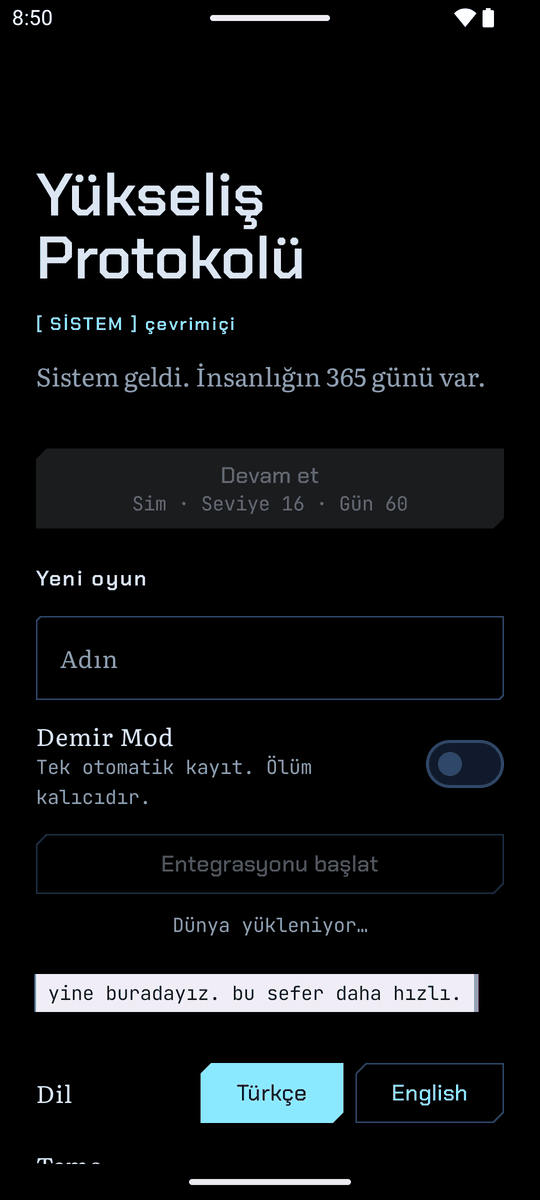
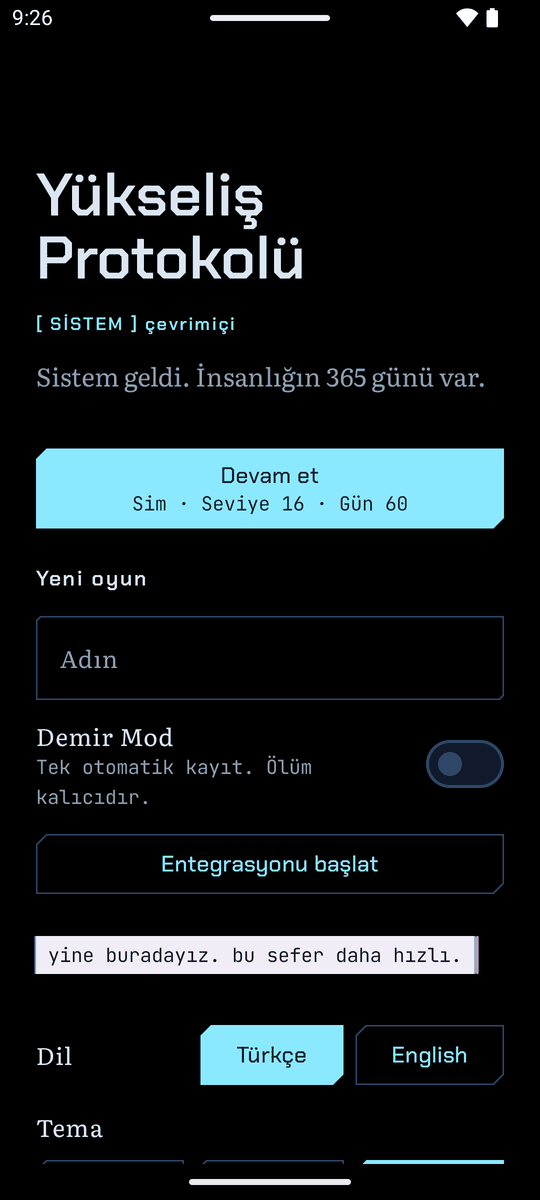
Paket 5: kalan P1 düzeltmeleri — bölüm kartları, tam ekran son, terimler, erişilebilirlik, yükleme süresi
- Bölüm açılış kartı (brifing) ve kapanış kartı (darboğaz); son ekranı tam ekran, son adı büyük başlık
- TR terimler: savaş kaynağı "Nefes" (NFS), defter karosu "Görevler"
- Çanta: mesleklere atıf yapan açıklamalar yeniden yazıldı, kullanılabilir eşya üstte, kullanım satırı
- Erişilebilirlik: anahtar satırları tek düğüm ve tek dokunma hedefi, metni tamamlayan dokunuş etiketli
- İçerik dosyaları paralel ayrıştırılır: emülatörde yükleme yaklaşık 8 sn → 4,3 sn (hedef 3 sn sağlanmadı)
- DECISIONS #173–#176, GDD, CLAUDE.md, UI_REVIEW düzeltme sonrası tablosu, PROGRESS

diff --git a/app/src/main/kotlin/com/yukselis/protocol/ui/story/StoryScreen.kt b/app/src/main/kotlin/com/yukselis/protocol/ui/story/StoryScreen.kt
@@ -144,7 +144,7 @@ fun StoryScreen(
 
     val skip = remember { MutableInteractionSource() }
     Column(modifier = modifier.fillMaxSize()) {
-        scene.chapter?.let { ChapterBar(it) }
+        if (!scene.isEnding) scene.chapter?.let { ChapterBar(it) }
         Box(modifier = Modifier.weight(1f).fillMaxWidth()) {
         LazyColumn(
             state = listState,
@@ -152,7 +152,7 @@ fun StoryScreen(
             verticalArrangement = Arrangement.spacedBy(14.dp),
             modifier = Modifier
                 .fillMaxSize()
-                .clickable(interactionSource = skip, indication = null) { finished = true },
+                .clickable(interactionSource = skip, indication = null, enabled = !finished, onClickLabel = stringResource(R.string.a11y_skip_text)) { finished = true },
         ) {
             if (scene.history.isNotEmpty()) {
                 item(key = "earlier") {
@@ -166,6 +166,15 @@ fun StoryScreen(
             // Son seçimin sonuçları (XP, seviye atlama, unvan) yeni pasajdan önce gösterilir.
             itemsIndexed(freshNotices, key = { i, _ -> "fresh-$passageKey-$i" }) { _, notice ->
                 AppearingCard(notice)
+            }
+
+            val chapterLine = scene.chapter
+            if (chapterLine != null) {
+                val id = scene.current.sceneId
+                when {
+                    CHAPTER_OPEN.matches(id) -> item(key = "chapter-open-$passageKey") { ChapterCard(chapterLine, opening = true, day = scene.day) }
+                    CHAPTER_CLOSE.matches(id) -> item(key = "chapter-close-$passageKey") { ChapterCard(chapterLine, opening = false, day = scene.day) }
+                }
             }
 
             item(key = "text-$passageKey") {
@@ -296,6 +305,38 @@ private fun ChapterBar(line: com.yukselis.engine.world.ChapterLine) {
 }
 
 private const val DEADLINE_WARN_DAYS = 3
+private val CHAPTER_OPEN = Regex("brifing_\\d+_1")
+private val CHAPTER_CLOSE = Regex("darbogaz_\\d+_1")
+
+/**
+ * Bölüm açılış ve kapanış kartı (UI_REVIEW E2, E3): brifingin ve darboğazın ilk sahnesinde, metinden önce. Açılışta bölüm
+ * numarası, adı, hedefi ve son tarih; kapanışta bölüm adı ve gün.
+ */
+@Composable
+private fun ChapterCard(line: com.yukselis.engine.world.ChapterLine, opening: Boolean, day: Int) {
+    val accent = if (opening) Game.colors.amber else Game.colors.muted
+    Column(modifier = Modifier.fillMaxWidth().systemWindow(accent = accent)) {
+        Column(modifier = Modifier.padding(horizontal = 16.dp, vertical = 14.dp), verticalArrangement = Arrangement.spacedBy(4.dp)) {
+            Text(
+                text = stringResource(if (opening) R.string.chapter_open else R.string.chapter_close, line.no).uppercase(LocalConfiguration.current.locales[0]),
+                style = GameType.systemTitle.copy(fontSize = 12.sp, letterSpacing = 1.2.sp),
+                color = accent,
+            )
+            Text(text = line.title, style = GameType.heading.copy(fontSize = 26.sp, lineHeight = 30.sp), color = MaterialTheme.colorScheme.onBackground)
+            if (opening) {
+                Text(text = line.goal, style = GameType.narration, color = MaterialTheme.colorScheme.onSurfaceVariant)
+                Text(
+                    text = stringResource(R.string.chapter_deadline) + ": " +
+                        (line.countdown ?: androidx.compose.ui.res.pluralStringResource(R.plurals.chapter_days, line.daysLeft, line.daysLeft)),
+                    style = GameType.system,
+                    color = if (line.daysLeft <= DEADLINE_WARN_DAYS) Game.colors.danger else Game.colors.amber,
+                )
+            } else {
+                Text(text = stringResource(R.string.chapter_day, day), style = GameType.system, color = MaterialTheme.colorScheme.onSurfaceVariant)
+            }
+        }
+    }
+}
 
 /** Altta ince eylem çubuğu: rutin eylemler, "metni göster" ya da son düğmesi. Hikaye seçenekleri burada durmaz. */
 @Composable
@@ -461,7 +502,7 @@ private fun EndingContent(ending: com.yukselis.engine.story.EndingView?) {
 @Composable
 private fun EndingCards(e: com.yukselis.engine.story.EndingView) {
     val gold = Game.colors.unique
-    Text(text = stringResource(R.string.ending_label, e.name), style = GameType.systemTitle, color = gold)
+    Text(text = stringResource(R.string.ending_label, e.name), style = GameType.heading.copy(fontSize = 30.sp, lineHeight = 34.sp), color = gold)
     Text(text = e.summary, style = GameType.narration)
     Text(text = stringResource(R.string.ending_stats, e.level, e.grade, e.day), style = GameType.system, color = MaterialTheme.colorScheme.onSurfaceVariant)
     e.archetype?.let { name ->

diff --git a/engine/src/main/kotlin/com/yukselis/engine/content/ContentParser.kt b/engine/src/main/kotlin/com/yukselis/engine/content/ContentParser.kt
@@ -103,6 +103,27 @@ object ContentParser {
 
     data class StoryFile(val start: String?, val scenes: List<Scene>)
 
+    /** Sırayı koruyan paralel dönüşüm; hata, ayrıştırıcının kendi istisnasıyla çıkar. */
+    private fun <T, R> parallelMap(items: List<T>, f: (T) -> R): List<R> {
+        val threads = Runtime.getRuntime().availableProcessors().coerceIn(1, MAX_PARSE_THREADS)
+        if (items.size < 2 || threads < 2) return items.map(f)
+        val pool = java.util.concurrent.Executors.newFixedThreadPool(threads)
+        try {
+            val futures = items.map { item -> pool.submit(java.util.concurrent.Callable { f(item) }) }
+            return futures.map { fut ->
+                try {
+                    fut.get()
+                } catch (e: java.util.concurrent.ExecutionException) {
+                    throw e.cause ?: e
+                }
+            }
+        } finally {
+            pool.shutdown()
+        }
+    }
+
+    private const val MAX_PARSE_THREADS = 4
+
     fun load(
         storyFiles: List<String>,
         namesJson: String,
@@ -114,8 +135,9 @@ object ContentParser {
         // Sonlar tablosu olaylardan önce kurulur: `son_uygun` koşulları ona bağlanır, tablo sonra doldurulur.
         val endingTable = EndingTable()
         EndingTable.current = endingTable
-        val stories = storyFiles.map { parseStory(it) }
-        val eventPacks = eventFiles.map { parseEvents(it) }
+        // Dosyalar birbirinden bağımsızdır: çekirdek sayısı kadar iş parçacığında ayrıştırılır (UI_REVIEW B5, açılış süresi).
+        val stories = parallelMap(storyFiles) { parseStory(it) }
+        val eventPacks = parallelMap(eventFiles) { parseEvents(it) }
         val scenes = stories.flatMap { it.scenes } + eventPacks.flatMap { it.second }
         val duplicates = scenes.groupBy { it.id }.filterValues { it.size > 1 }.keys
         if (duplicates.isNotEmpty()) throw ContentFormatException("Aynı kimliğe sahip sahneler: $duplicates")
@@ -127,7 +149,7 @@ object ContentParser {
         val profRoot = obj(PROFESSIONS)
         val names = NameRegistry(parseNames(namesJson))
         val texts = SystemTexts(obj(SYSTEM)?.map { (k, v) -> k to ltext(v, "system.$k") }?.toMap() ?: emptyMap())
-        val npcs = npcFiles.map { parseNpc(YamlTree.parseObject(it, "npc")) }.also { list ->
+        val npcs = parallelMap(npcFiles) { parseNpc(YamlTree.parseObject(it, "npc")) }.also { list ->
             val dup = list.groupBy { it.id }.filterValues { it.size > 1 }.keys
             if (dup.isNotEmpty()) throw ContentFormatException("Aynı kimliğe sahip NPC'ler: $dup")
         }.associateBy { it.id }

diff --git a/app/src/main/kotlin/com/yukselis/protocol/ui/title/TitleScreen.kt b/app/src/main/kotlin/com/yukselis/protocol/ui/title/TitleScreen.kt
@@ -22,6 +22,7 @@ import androidx.compose.material3.OutlinedTextField
 import androidx.compose.material3.Switch
 import androidx.compose.material3.Text
 import androidx.compose.runtime.Composable
+import androidx.compose.foundation.selection.toggleable
 import androidx.compose.runtime.getValue
 import androidx.compose.runtime.mutableStateOf
 import androidx.compose.runtime.saveable.rememberSaveable
@@ -124,24 +125,30 @@ fun TitleScreen(
         )
         Row(
             verticalAlignment = Alignment.CenterVertically,
-            modifier = Modifier.fillMaxWidth().padding(vertical = 12.dp),
+            modifier = Modifier
+                .fillMaxWidth()
+                .toggleable(value = ironman, role = androidx.compose.ui.semantics.Role.Switch, onValueChange = { ironman = it })
+                .padding(vertical = 12.dp),
         ) {
             Column(modifier = Modifier.weight(1f)) {
                 Text(stringResource(R.string.ironman_mode), style = MaterialTheme.typography.bodyLarge)
                 Text(stringResource(R.string.ironman_desc), style = GameType.system, color = MaterialTheme.colorScheme.onSurfaceVariant)
             }
-            Switch(checked = ironman, onCheckedChange = { ironman = it })
+            Switch(checked = ironman, onCheckedChange = null)
         }
         if (newGamePlusUnlocked) {
             Row(
                 verticalAlignment = Alignment.CenterVertically,
-                modifier = Modifier.fillMaxWidth().padding(bottom = 12.dp),
+                modifier = Modifier
+                    .fillMaxWidth()
+                    .toggleable(value = newGamePlus, role = androidx.compose.ui.semantics.Role.Switch, onValueChange = { newGamePlus = it })
+                    .padding(bottom = 12.dp),
             ) {
                 Column(modifier = Modifier.weight(1f)) {
                     Text(stringResource(R.string.ng_plus), style = MaterialTheme.typography.bodyLarge)
                     Text(stringResource(R.string.ng_plus_desc), style = GameType.system, color = MaterialTheme.colorScheme.onSurfaceVariant)
                 }
-                Switch(checked = newGamePlus, onCheckedChange = { newGamePlus = it })
+                Switch(checked = newGamePlus, onCheckedChange = null)
             }
         }
         val start = { onNewGame(name.ifBlank { defaultName }, ironman, newGamePlus && newGamePlusUnlocked) }

diff --git a/app/src/main/kotlin/com/yukselis/protocol/ui/App.kt b/app/src/main/kotlin/com/yukselis/protocol/ui/App.kt
@@ -170,7 +170,7 @@ private fun GameScaffold(ui: UiState, scene: SceneView, status: StatusView, view
 
     val tabs = Tab.entries.filter { it.grant == null || it.grant in status.tabs }
     // Verilmemiş bir sekme seçili kaldıysa (ör. eski kayıt yüklendi) Hikaye gösterilir.
-    val active = if (tab in tabs) tab else Tab.STORY
+    val active = if (tab in tabs && !scene.isEnding) tab else Tab.STORY
 
     // Geri tuşu (UI_REVIEW B4): başka sekmedeyse Hikaye'ye döner; Hikaye'de ilk basış uyarır, 2 sn içinde ikincisi çıkar.
     // (Daha fazla'nın alt sayfası kendi geri işleyicisiyle önce kapanır.)
@@ -195,8 +195,10 @@ private fun GameScaffold(ui: UiState, scene: SceneView, status: StatusView, view
 
     Box(modifier = Modifier.fillMaxSize()) {
     Scaffold(
-        topBar = { Header(scene, status) },
+        // Son ekranı tam ekrandır (UI_REVIEW E1): üst şerit ve sekmeler gizli; çıkış "Ana menüye dön".
+        topBar = { if (!scene.isEnding) Header(scene, status) else Spacer(Modifier.statusBarsPadding()) },
         bottomBar = {
+            if (!scene.isEnding) {
             // Sekme çubuğu gezinmedir, okuma değil: oyun içi yazı boyutu onu büyütmez (etiketler kesilmesin).
             // Cihaz yazı ölçeği de en çok NAV_MAX_FONT_SCALE: "Hik…", "Dur…" diye kesilmesin (UI_REVIEW C2).
             val d = LocalDensity.current
@@ -220,6 +222,7 @@ private fun GameScaffold(ui: UiState, scene: SceneView, status: StatusView, view
                         label = { Text(stringResource(t.label), maxLines = 1, softWrap = false, overflow = TextOverflow.Visible, style = MaterialTheme.typography.labelSmall) },
                     )
                 }
+            }
             }
             }
         },

diff --git a/app/src/main/kotlin/com/yukselis/protocol/ui/more/MoreScreen.kt b/app/src/main/kotlin/com/yukselis/protocol/ui/more/MoreScreen.kt
@@ -43,6 +43,7 @@ import com.yukselis.protocol.ui.components.SystemCard
 import androidx.compose.ui.graphics.Color
 import com.yukselis.protocol.ui.theme.GameType
 import androidx.activity.compose.BackHandler
+import androidx.compose.foundation.selection.toggleable
 import androidx.compose.foundation.layout.height
 import androidx.compose.foundation.layout.heightIn
 import androidx.compose.foundation.layout.size
@@ -498,14 +499,18 @@ private fun NotificationToggle(
 
 @Composable
 private fun ToggleRow(label: String, description: String?, checked: Boolean, enabled: Boolean, onChange: (Boolean) -> Unit) {
+    // Satırın tamamı tek anahtar: ekran okuyucu etiketi durumla birlikte okur, dokunma alanı satır kadar (UI_REVIEW G2).
     Row(
         verticalAlignment = Alignment.CenterVertically,
-        modifier = Modifier.fillMaxWidth().padding(vertical = 6.dp),
+        modifier = Modifier
+            .fillMaxWidth()
+            .toggleable(value = checked, enabled = enabled, role = androidx.compose.ui.semantics.Role.Switch, onValueChange = onChange)
+            .padding(vertical = 9.dp),
     ) {
         Column(modifier = Modifier.weight(1f)) {
             Text(label, style = MaterialTheme.typography.bodyLarge)
             description?.let { Text(it, style = GameType.system, color = MaterialTheme.colorScheme.onSurfaceVariant) }
         }
-        Switch(checked = checked, onCheckedChange = onChange, enabled = enabled)
+        Switch(checked = checked, onCheckedChange = null, enabled = enabled)
     }
 }

diff --git a/app/src/main/kotlin/com/yukselis/protocol/ui/bag/BagScreen.kt b/app/src/main/kotlin/com/yukselis/protocol/ui/bag/BagScreen.kt
@@ -56,7 +56,8 @@ fun BagScreen(
             SectionTitle(stringResource(R.string.inventory))
             if (bag.items.isEmpty()) Text(stringResource(R.string.inventory_empty), style = GameType.system, color = MaterialTheme.colorScheme.onSurfaceVariant)
         }
-        items(bag.items, key = { "i-${it.id}" }) { ItemRow(it) { onUse(it.id) } }
+        // Kullanılabilir eşyalar üstte (UI_REVIEW D2).
+        items(bag.items.sortedByDescending { it.usable }, key = { "i-${it.id}" }) { ItemRow(it) { onUse(it.id) } }
 
         // Meslek bölümü yalnız motor bir meslek adı veriyorsa (sistem kapalıyken hiç görünmez).
         val professionName = bag.professionName
@@ -78,6 +79,8 @@ private fun ItemRow(item: ItemView, onUse: () -> Unit) {
             Column(modifier = Modifier.weight(1f)) {
                 Text("${item.name} ×${item.count}", style = GameType.systemTitle, color = rarityColorOf(item.rarity))
                 Text(item.description, style = GameType.system, color = MaterialTheme.colorScheme.onSurfaceVariant)
+                // Kullan düğmesi olmayan eşya neye yaradığını söyler.
+                if (!item.usable) Text(stringResource(R.string.item_trade_hint), style = GameType.system, color = MaterialTheme.colorScheme.onSurfaceVariant.copy(alpha = 0.75f))
             }
             if (item.usable) OutlinedButton(onClick = onUse) { Text(stringResource(R.string.use)) }
         }

diff --git a/tools/qa/ui/s_p1.py b/tools/qa/ui/s_p1.py
@@ -1,0 +1,37 @@
+"""Kalan P1 düzeltmeleri sonrası görüntüler ve ölçümler (UI_REVIEW B5, D2, E1–E3, F1, F2, G1, G2)."""
+import os, re, time, json
+os.environ["CAP_SUFFIX"] = "_sonra"
+from cap import *
+import cap
+
+cond("tr", "DARK", "MEDIUM", 1.0, "small")
+# B5: yükleme süresi (3 ölçüm)
+for i in range(3):
+    stop(); time.sleep(1)
+    t0 = time.time()
+    sh(f"am start -W -n {cap.PKG}/.MainActivity")
+    t1 = time.time()
+    while True:
+        ns = nodes()
+        if any(re.search(r"^Devam et", n[0]) for n in ns) and not any("yükleniyor" in n[0] for n in ns): break
+        if time.time() - t1 > 40: break
+    print("yükleme %d: start %.1f sn + dünya %.1f sn" % (i + 1, t1 - t0, time.time() - t1))
+
+dumps = {}
+def snap(name, scroll=0):
+    shot(name); dumps[name] = nodes()
+    for i in range(scroll):
+        swipe_up(0.45); shot(f"{name}_k{i+1}"); dumps[f"{name}_k{i+1}"] = nodes()
+
+for f in ("brifing_1", "brifing_4", "darbogaz_2"):
+    load(f); snap(f)
+load("son"); snap("son", 4)
+load("savas_taktik"); snap("savas_taktik")
+load("us_perde2")
+tap(r"^Çanta$"); snap("sekme_bag", 1)
+tap(r"^Durum$"); snap("sekme_status")
+tap(r"^Daha fazla$"); snap("sekme_more")
+tap(r"^Ayarlar$", wait=1.5); snap("dahafazla_ayarlar", 1)
+stop(); start(); time.sleep(8); snap("baslik")
+os.makedirs(os.path.join(cap.ROOT, "build", "ui-dumps"), exist_ok=True)
+json.dump(dumps, open(os.path.join(cap.ROOT, "build", "ui-dumps", "p1_sonra.json"), "w", encoding="utf-8"), ensure_ascii=False)

diff --git a/docs/DECISIONS.md b/docs/DECISIONS.md
@@ -10,6 +10,11 @@ GDD'nin açık bıraktığı ya da bilinçli olarak saptığımız noktalar. En 
 | 171 | **Geri alınamaz işlemler onay ister; geri tuşu oyundan düşürmez.** Kayıt varken Yeni oyun, dolu slota Kaydet ve Yükle onay penceresi açar. Geri tuşu: açık alt sayfa → Hikaye sekmesi → "çıkmak için bir kez daha" (2 sn). | UI_REVIEW B1–B4: üç işlem onaysız veri kaybına yol açıyordu; geri tuşu her ekrandan uygulamadan çıkıyordu. | — |
 | 172 | **Denetim etiketlerinde yazı ölçeği tavanı** (`CappedFontScale`): alt sekmeler 1.0, savaş düğmeleri ve başlık logosu 1.3. Okuma metni (anlatı, seçenek, Sistem kartı) cihaz ölçeğini tam izler. | UI_REVIEW C1–C4: ölçek 2.0'da sekmeler "Hik…", düğmeler "Yetene", logo "Yükse/liş" diye bölünüyordu. Sekme ve düğmeler ikonla/konumla tanınır; okunması gereken metin değil. | Erişilebilirlik denetiminde sekme etiketleri küçük bulunursa yalnız ikon + seçili sekmede etiket. |
 
+| 173 | **Bölüm açılış/kapanış kartı ve tam ekran son.** Brifingin ilk sahnesinde (`brifing_<n>_1`) metinden önce bölüm kartı (numara, ad, hedef, son tarih); darboğazın ilk sahnesinde (`darbogaz_<n>_1`) kapanış kartı (ad, gün). Son ekranında üst şerit, bölüm çubuğu ve sekmeler gizli; son adı büyük başlık. Kartlar arayüzde sahne kimliğinden tanınır, motor değişmedi. | UI_REVIEW E1–E3: bölüm başı, bölüm sonu ve son sıradan sahne gibi geçiyordu. | Kapanış kartına "bu bölümde yaptıkların" özeti istenirse motor `ChapterLine`'a bölüm kroniği ekler. |
+| 174 | **Terimler: savaş kaynağı TR'de "Nefes" (NFS); defter karosu "Görevler".** "Dayanım" (kaynak) ile "Dayanıklılık" (DAY statı) ve "Günlük" (defter) ile "Günlük Görev" karışıyordu. EN değişmedi (Stamina/STA, Journal). | UI_REVIEW F1, F2. | — |
+| 175 | **İçerik dosyaları paralel ayrıştırılır** (`ContentParser.parallelMap`, en çok 4 iş parçacığı; hikaye, olay ve NPC dosyaları). Emülatörde (debug) "Dünya yükleniyor" yaklaşık 8 sn → 4,4 sn; hedef 3 sn'nin altı sağlanmadı. | UI_REVIEW B5. | Release derlemesinde gerçek cihazda ölç; hâlâ > 3 sn ise ayrıştırılmış içeriği ikili önbelleğe al. |
+| 176 | **Eşya açıklamaları ve anahtar satırları.** Kapatılan mesleklere atıf yapan 4 eşya açıklaması takas diliyle yazıldı; Çanta'da kullanılabilir eşyalar üstte, kullanılamayanlarda "Takasta ve hikaye seçimlerinde işe yarar" satırı. Ayarlar ve başlıktaki anahtar satırları tek dokunma hedefi ve tek erişilebilirlik düğümü (`toggleable`); metni tamamlayan dokunuş etiketli ve yalnız metin yazılırken etkin. | UI_REVIEW D2, G1, G2. | — |
+
 ## Oyuncu gözüyle inceleme, Paket 4: sistem çıkarma — 2026-11-10
 
 | # | Karar | Neden | Ne zaman yeniden bakılır |

diff --git a/docs/UI_REVIEW.md b/docs/UI_REVIEW.md
@@ -225,6 +225,16 @@ etiketin sonunda `_sonra` ile: `docs/ui-review/<ekran>__<koşul>_sonra.png` (4 k
 | C3 | Düzeltildi | Savaş düğmesi etiketleri ölçek tavanı 1.3: "Yetenek", "Otomatik" tam. Günlük alanı değişmedi. | `savas_taktik__tr_small_dark_f2` | `savas_taktik__tr_small_dark_f2_sonra` |
 | C4 | Düzeltildi | Başlık logosu ölçek tavanı 1.3: sözcük bölünmüyor, Devam et ilk ekranda. | `baslik__tr_small_dark_f2`, `baslik__tr_small_dark_f2xl` | `baslik__tr_small_dark_f2_sonra` |
 
+| B5 | Kısmen | İçerik dosyaları paralel ayrıştırılıyor: "Dünya yükleniyor" yaklaşık 8 sn → 4,4 sn (son ölçüm 4,3 / 4,2 / 4,3; emülatör, debug). Hedef 3 sn'nin altı sağlanmadı. | `baslik__tr_small_dark_n` | `baslik__tr_small_dark_n_sonra` |
+| D2 | Düzeltildi | Mesleklere atıf yapan 4 açıklama yeniden yazıldı; kullanılabilir eşya üstte; diğerlerinde "Takasta ve hikaye seçimlerinde işe yarar". | `sekme_bag__tr_small_dark_n` | `sekme_bag__tr_small_dark_n_sonra` |
+| E1 | Düzeltildi (kısmen) | Son ekranı tam ekran: üst şerit, bölüm çubuğu ve sekmeler gizli, son adı büyük başlık. Epilog kartları hâlâ tek kaydırma (sırayla açılan kartlar yapılmadı). | `son__tr_small_dark_n`, `son_k1`–`_k4` | aynı adlar `_sonra` |
+| E2 | Düzeltildi | Brifingin ilk sahnesinde bölüm açılış kartı: numara, ad, hedef, son tarih. | `brifing_1__tr_small_dark_n`, `brifing_4__…` | aynı adlar `_sonra` |
+| E3 | Düzeltildi (sade) | Darboğazın ilk sahnesinde kapanış kartı: bölüm adı ve gün. Seçim özeti ve sonraki bölümün adı yok (motor verisi gerekir). | `darbogaz_2__tr_small_dark_n` | `darbogaz_2__tr_small_dark_n_sonra` |
+| F1 | Düzeltildi | Defter karosu TR'de "Görevler". | `sekme_more__tr_small_dark_n` | `sekme_more__tr_small_dark_n_sonra` |
+| F2 | Düzeltildi | Savaş kaynağı TR'de "Nefes" (NFS); Dayanıklılık (DAY) ile karışmıyor. | `savas_taktik__tr_small_dark_n` | `savas_taktik__tr_small_dark_n_sonra` |
+| G1 | Düzeltildi | Metni tamamlayan dokunuş etiketli ve yalnız metin yazılırken etkin; etiketsiz dokunulabilir öğe ölçümü hikaye, savaş, Ayarlar ve Daha fazla ekranlarında 0 (başlıkta ad alanı ve dil/tema düğmeleri sayımda kaldı). | — | `build/ui-dumps/p1_sonra.json` ölçümü |
+| G2 | Düzeltildi | Ayarlar ve başlıktaki anahtar satırları tek düğüm ve tek dokunma hedefi (satırın tamamı). | `dahafazla_ayarlar__tr_small_dark_n` | `dahafazla_ayarlar__tr_small_dark_n_sonra` |
+
 Doğrulama: `s_flow.py` (geri tuşu Hikaye ve Durum'da oyunda kalıyor; Kaydet/Yükle/Yeni oyun onay penceresi açıyor), `scripts/check.sh`.
 
 Düzeltmeden sonra görülen ve açık kalanlar:

diff --git a/docs/GDD.md b/docs/GDD.md
@@ -63,7 +63,7 @@ Oyuncunun stat büyümesi **üsteldir** (Günlük Görev serisi, Benzersiz yeten
 - **Gösteriş seçenekleri:** yüksek statlar "[GÜÇ 40 · Önemsiz] Kapıyı menteşesinden sök" gibi sorunu tarzla çözen seçenekler gösterir. Yeniden denenebilir (beyaz) ve tek seferlik (kırmızı) kontroller görünür olasılıklarla kalır, ama çoğunlukla sosyal ve ahlaki kontrollerde kullanılır.
 - **Fırsat eli:** serbest zamanda 3 rastgele olay kartı gösterilir (Perde 1'de 2; DECISIONS #163); oyuncu birini seçer.
 - **İki savaş modu:**
-  - **Gerçek savaş** (denkler ve bosslar): taktik; her turda duruş (tam saldırı / ölçülü / savunmacı) ve Dayanım taahhüdü; düzyazıyla anlatılır, sayılar istenirse görünür; boss, zeki düşman ve NPC düellosu oyuncunun seçtiği bir **infaz** hamlesiyle biter, sıradan düşman tek satırla düşer (DECISIONS #157). Taktik (duruş, efor) ve Ortam ilk üç savaştan sonra açılır.
+  - **Gerçek savaş** (denkler ve bosslar): taktik; her turda duruş (tam saldırı / ölçülü / savunmacı) ve Nefes taahhüdü; düzyazıyla anlatılır, sayılar istenirse görünür; boss, zeki düşman ve NPC düellosu oyuncunun seçtiği bir **infaz** hamlesiyle biter, sıradan düşman tek satırla düşer (DECISIONS #157). Taktik (duruş, efor) ve Ortam ilk üç savaştan sonra açılır.
   - **Ezme:** oyuncunun açıkça üstün olduğu sıradan düşmanlar tek, şık bir satırla otomatik çözülür. Kasılma (grind) yoktur.
 - **Yoldaş tepkileri:** büyük seçimlerden önce yoldaşlar kişiliklerine ve ilişkilerine göre tek satırlık görüş bildirir. Oyuncunun büyüyen gücüne de hayranlık, endişe, kıskançlık ya da bağımlılıkla tepki verirler. Deniz'in yayı "arkadaşımın bir canavara ya da tanrıya dönüşmesini izlemek" olur.
 - **Bilgi günlüğü:** öğrenilen söylentiler, sırlar ve gerçek seviyeler diyalog seçeneklerini açar; NPC'lere söylenen yalanlar onların hafızasına girer ve sonra ortaya çıkabilir.
@@ -115,7 +115,7 @@ Karakter gücü beş katmandan oluşur: statlar, seviye ve kademe, sınıf, yete
 | --- | --- | --- |
 | Güç | GÜÇ | Fiziksel hasar, taşıma, bazı kapıları zorla açma |
 | Çeviklik | ÇEV | İnisiyatif, kaçınma, kritik şansı |
-| Dayanıklılık | DAY | Can (HP), fiziksel direnç, Dayanım |
+| Dayanıklılık | DAY | Can (HP), fiziksel direnç, Nefes (savaş kaynağı; eski adı Dayanım, DECISIONS #174) |
 | Zeka | ZEK | Büyü hasarı, mana havuzu, bulmaca çözümleri |
 | Bilgelik | BİL | Mana yenilenmesi, büyü direnci, Öz kavrayışı |
 | Algı | ALG | İsabet, kritik hasar, gizli nesne/tuzak/yalan fark etme |

diff --git a/CLAUDE.md b/CLAUDE.md
@@ -204,7 +204,7 @@ Sürümler: Gradle 9.1, AGP 8.13.2, Kotlin 2.2.21, JDK 25 (Android Studio JBR). 
 - Kayıt: her seçimden ve her Sistem eyleminden sonra ve `onStop`'ta otomatik; dosyalar `files/saves/*.json`, Auto Backup kapsamında.
 - Kendini açan arayüz: Yetenekler ve Çanta sekmeleri `StatusView.tabs` içinde yoksa gizlidir. `StatusView.showHidden/showRank/showRelations/showMap/showArmy/showKnowledge`
   Durum'un gizli ölçülerini ve Daha fazla karolarını ilgili sistem oyuna girene kadar gizler; `CombatView.tacticsUnlocked` yanlışken savaş ekranı
-  Saldır · Savun · Analiz · Kaç · Otomatik'e iner (Taktik, Ortam, Dayanım yok). Operasyon düğmesi onay penceresi açar (`OperationChoiceView`).
+  Saldır · Savun · Analiz · Kaç · Otomatik'e iner (Taktik, Ortam, Nefes yok). Operasyon düğmesi onay penceresi açar (`OperationChoiceView`).
 - Tam ekran kartlar `ui/system/Overlays.kt`: önce kutlama (seviye/evrim/sınıf), sonra bekleyen istem.
 - Tema: Sistem · Açık · Koyu (koyu temanın zemini saf siyah; ayrı AMOLED seçeneği yok, DECISIONS #148).
 - **Görsel kimlik "Kırık pencere"** (DECISIONS #147): renk/yazı/şekil/hareket tokenları yalnız `ui/theme/Theme.kt`'de
@@ -227,6 +227,9 @@ Sürümler: Gradle 9.1, AGP 8.13.2, Kotlin 2.2.21, JDK 25 (Android Studio JBR). 
 - Geri alınamaz işlem onay ister (DECISIONS #171): kayıt varken Yeni oyun, dolu slota Kaydet, Yükle. Geri tuşu: alt sayfa → Hikaye sekmesi →
   "çıkmak için tekrar bas" (`GameScaffold`). Denetim etiketlerinde yazı ölçeği tavanı `CappedFontScale` (sekmeler 1.0, savaş düğmeleri ve
   logo 1.3; DECISIONS #172); okuma metnine tavan konmaz.
+- Bölüm kartları ve son (DECISIONS #173): `brifing_<n>_1` sahnesinde açılış, `darbogaz_<n>_1` sahnesinde kapanış kartı (`ChapterCard`,
+  sahne kimliğinden tanınır: bu adlandırmayı bozma); son ekranı tam ekrandır (üst şerit ve sekmeler gizli). TR terimler (#174): savaş kaynağı
+  "Nefes" (NFS), defter karosu "Görevler"; "Dayanım" ve tek başına "Günlük" yazma. İçerik dosyaları paralel ayrıştırılır (#175).
 - Arayüz incelemesi araçları: `:tools:simulator:fixtures` (anlık kayıt üretir), `tools/qa/ui/cap.py`, `s_all.py` (koşul matrisi görüntüleri →
   `docs/ui-review/`), rapor `docs/UI_REVIEW.md`.
 - **Diyalog/alt sayfa:** `AlertDialog` değil `AppAlertDialog` kullan; `ModalBottomSheet` içeriğini `Localized {}` ile sar

diff --git a/docs/PROGRESS.md b/docs/PROGRESS.md
@@ -35,7 +35,8 @@ Görev tanımı: `CLAUDE_CODE_GOREV.md`
 - [x] **Paket 5 — arayüz incelemesi** (`docs/UI_REVIEW.md`, görüntüler `docs/ui-review/`, araçlar `tools/qa/ui/`, `:tools:simulator:fixtures`):
       rapor (4 P0, 18 P1, 19 P2) + seçilen düzeltmeler (DECISIONS #170–#172): onay pencereleri (yeni oyun, kaydet, yükle), geri tuşu,
       seçenekler metnin altında + "Diğer seçenekler" katlaması + kompakt seçenek düğmesi, üs eylem çubuğu, büyük yazı tavanları.
-      Açık: A6 ve kalan P1/P2'ler (E1–E3 bölüm/son kartları, B5 yükleme süresi, G1–G2 erişilebilirlik etiketleri, F1–F2 terimler)
+      Kalan P1'ler de yapıldı (DECISIONS #173–#176): bölüm açılış/kapanış kartı, tam ekran son, "Nefes"/"Görevler" terimleri, eşya
+      açıklamaları, anahtar satırları, paralel içerik ayrıştırma (yükleme 8 → 4,4 sn; hedef 3 sn sağlanmadı). Açık: A6 ve P2'ler
 
 ## Sanat entegrasyonu (2026-11-07)
 - [x] Uyarlanabilir simge (art/promo/icon.jpg; amblem 46 dp, güvenli alan betikte denetlenir), tek renkli katman, bildirim simgesi
